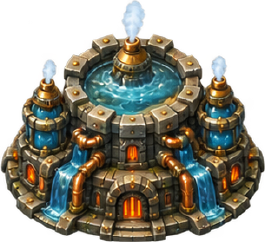
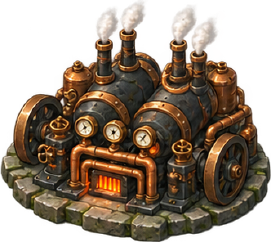
Repaint Steam as an actual steam engine
First of the six duals redone under the name rule. The old Steam was a blue-topped stone keep
with copper pipework -- a fortress wearing the word. This one is a riveted boiler bolted onto
a stone plinth: firebox glowing orange behind its grate, copper condensers, matched flywheels,
stubby stacks jetting steam, and at tier 5 the whole machine run past its limit with its seams
glowing red and every valve lifted. At board scale it reads as a MACHINE, which no amount of
recolouring the keep would have achieved.

Every tier wider than tall except tier 1 at 0.94, a hair under the floor, from a tall plume
over the smallest engine -- not worth a re-cut at that size.

Two measurement notes came out of it, both in the doc now.

Measure the anchor the way Sprites.anchor() does or the number is fiction. A first pass over
Dinosaur reported 46.0-54.0% and concluded creature shapes cannot hold their centre. They can:
the game takes the MEDIAN of row middles over a band 4% of the sprite's height, and by that
measure Dinosaur sits at 47.5-50.3%, no worse than the fortress sets. The bad figure came from
averaging the lowest four rows, where one tapering corner of a plinth dominates.

And an off-centre anchor is only a defect when the BASE is uneven. Steam reads 52-56%, the
highest in the roster, and it is harmless: the plinth is even, and what moves the number is
the plume widening the bounding box on one side while the ground point stays put. The game
[…]

diff --git a/godottowerdefense/docs/tower-art-prompt.md b/godottowerdefense/docs/tower-art-prompt.md
@@ -10,10 +10,9 @@ roster this recipe is now being used for, and **they no longer follow the recipe
 Read "Fusions are named things" below before generating one: the six element towers keep the
 shared fortress language, and every fusion now takes its shape from ITS OWN NAME instead.
 
-Painted so far: all six duals (Steam, Lava, Clay, Sun, Well, Roots) under the OLD fusion
-recipe, and Dinosaur under the new one. Infernal, Rainbow, Flesh Golem and Pure are unpainted,
-and the six duals are queued to be redone — Steam is a stone keep with copper pipes rather
-than a steam engine, and Lava is a fortress rather than a volcano.
+Painted under the NEW name rule: Dinosaur, Steam. Painted under the OLD fusion recipe and
+queued to be redone: Lava (a fortress, not a volcano), Clay, Sun, Well, Roots. Unpainted:
+Infernal, Rainbow, Flesh Golem, Pure.
 
 The pipeline around it is in [CLAUDE.md](../../CLAUDE.md) ("Painted tower set"); this file is
 only the prompt.
@@ -196,7 +195,7 @@ because towers never move.
 
 | Check | Target | Dinosaur |
 |---|---|---|
-| Ground anchor off its own centre | ~0% | 49.2 / 46.0 / 48.0 / 54.0 / 46.8% |
+| Ground anchor (measured as the GAME does) | ~50% | 49.0 / 47.5 / 49.1 / 50.3 / 47.8% |
 | Width : height | wider than tall | 1.08 / 1.09 / 1.12 / 1.10 / 1.19 |
 | Canvas | 1774x887, 2:1 | exact |
 
@@ -205,10 +204,36 @@ which is the whole point of the change, and it does not read as a creep. The nam
 earns its keep too — Dinosaur at tiers 1-3 and Fossil at 4-5, so the tower petrifies at the
 rename and the player can see it happen.
 
-The anchor spread 46.0-54.0%, the widest any set has measured. A creature has a head at one
-end and a tail at the other, and no amount of asking makes that symmetrical; the plinth is
-what keeps it inside eight points rather than twenty. Expect this band from every
-creature-shaped fusion and do not re-cut over it — it is about six pixels at drawn size.
+**Measure the anchor the way `Sprites.anchor()` does, or the number is fiction.** A first
+pass over this set reported 46.0-54.0% and concluded that creature shapes simply cannot hold
+their centre. They can: the game takes the MEDIAN of the row middles across a band 4% of the
+sprite's height, and by that measure Dinosaur sits at 47.5-50.3%, no worse than the fortress
+sets. The bad number came from averaging the lowest four rows, where a single tapering corner
+of the plinth dominates. A one-off script is fine, but copy the algorithm from `sprites.gd`.
+### What Steam measured, repainted as an engine
+
+The first Steam was a blue-topped stone keep with copper pipework — a fortress wearing the
+word. Repainted under the name rule it is a riveted boiler bolted to a stone plinth: firebox
+glowing orange behind its grate, copper condensers, matched flywheels, stubby stacks jetting
+steam, and at tier 5 the whole machine run past its limit, seams glowing red and every valve
+lifted. On the board it reads as a MACHINE at a glance, which no amount of recolouring the
+old keep would have achieved.
+
+| Check | Target | Steam |
+|---|---|---|
+| Ground anchor (as the game measures it) | ~50% | 48.1 / 55.9 / 54.8 / 53.4 / 52.0% |
+| Width : height | wider than tall | 0.94 / 1.04 / 1.12 / 1.12 / 1.13 |
+| Canvas | 1774x887, 2:1 | exact |
+
+**An off-centre anchor is only a defect when the BASE is uneven.** Steam's reads 52-56%, the
+highest in the roster, and it is harmless: the plinth is even, and what pushes the number is
+the steam plume widening the sprite's bounding box on one side while the ground point stays
+where it is. The game positions by the anchor, not by the box, so the machine lands on its
+spot and the plume simply hangs further out on one side. Compare Earth's original 17%, which
+was a rock apron on one side of the FOOT and did move the building off its spot.
+
+Tier 1 came in at 0.94 wide to tall, a hair under the floor, for the same reason in the other
+axis — a tall plume over the smallest engine. Not worth a re-cut at that size.
 
 ### A cutter bug this sheet found
 
